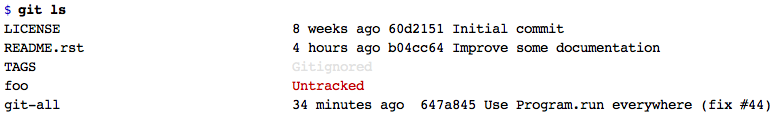
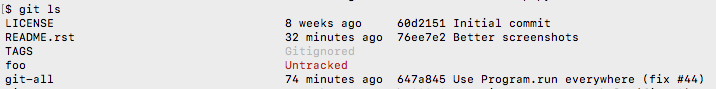
Better background for screenshots

diff --git a/README.rst b/README.rst
@@ -49,7 +49,7 @@ Safe commands
   Checkout and push a fresh branch
 
 ``git-ls``
-  Like ``ls`` but shows git info, with good use of color
+  Like ``ls``, but shows git info, with subtle use of color
   (from an unknown source)
 
 .. image:: img/git-ls-screenshot.png
@@ -62,7 +62,7 @@ Safe commands
   Rotate the current branch forward or backward in the list of branches
 
 ``git-st``
-  Pretty, compact alternative to ``git-status``
+  Pretty, compact alternative to ``git-status``.
   This version written by https://github.com/PlatyPew/, original
   version by https://www.reddit.com/user/ex1c)
 
